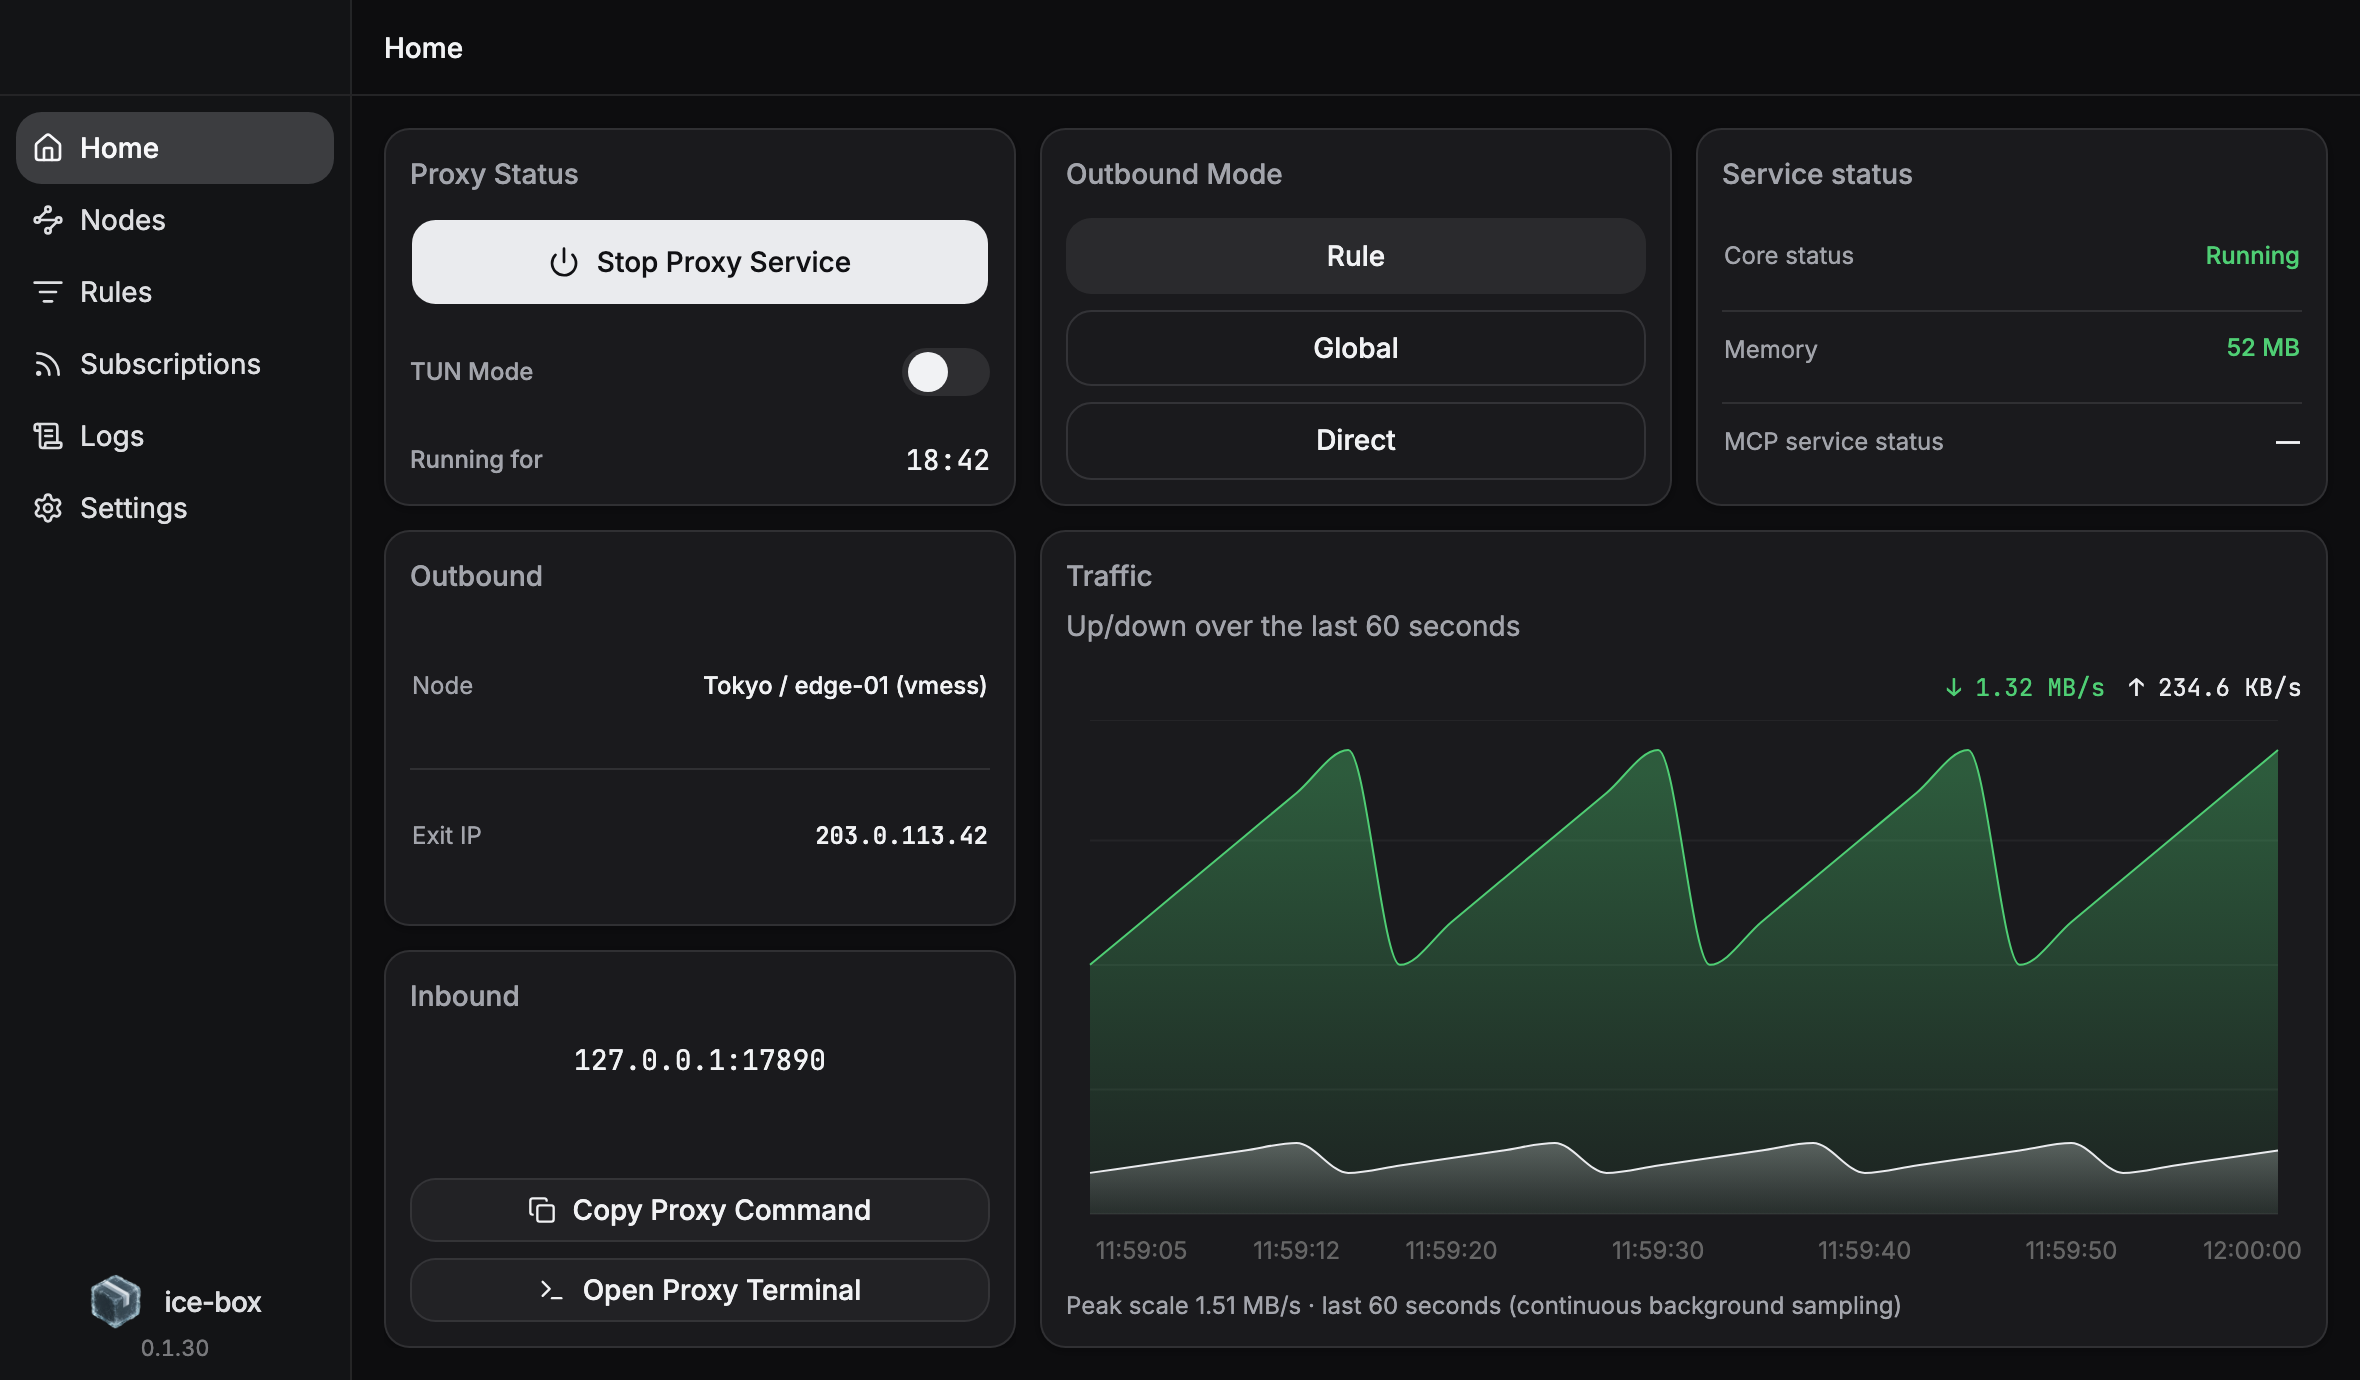
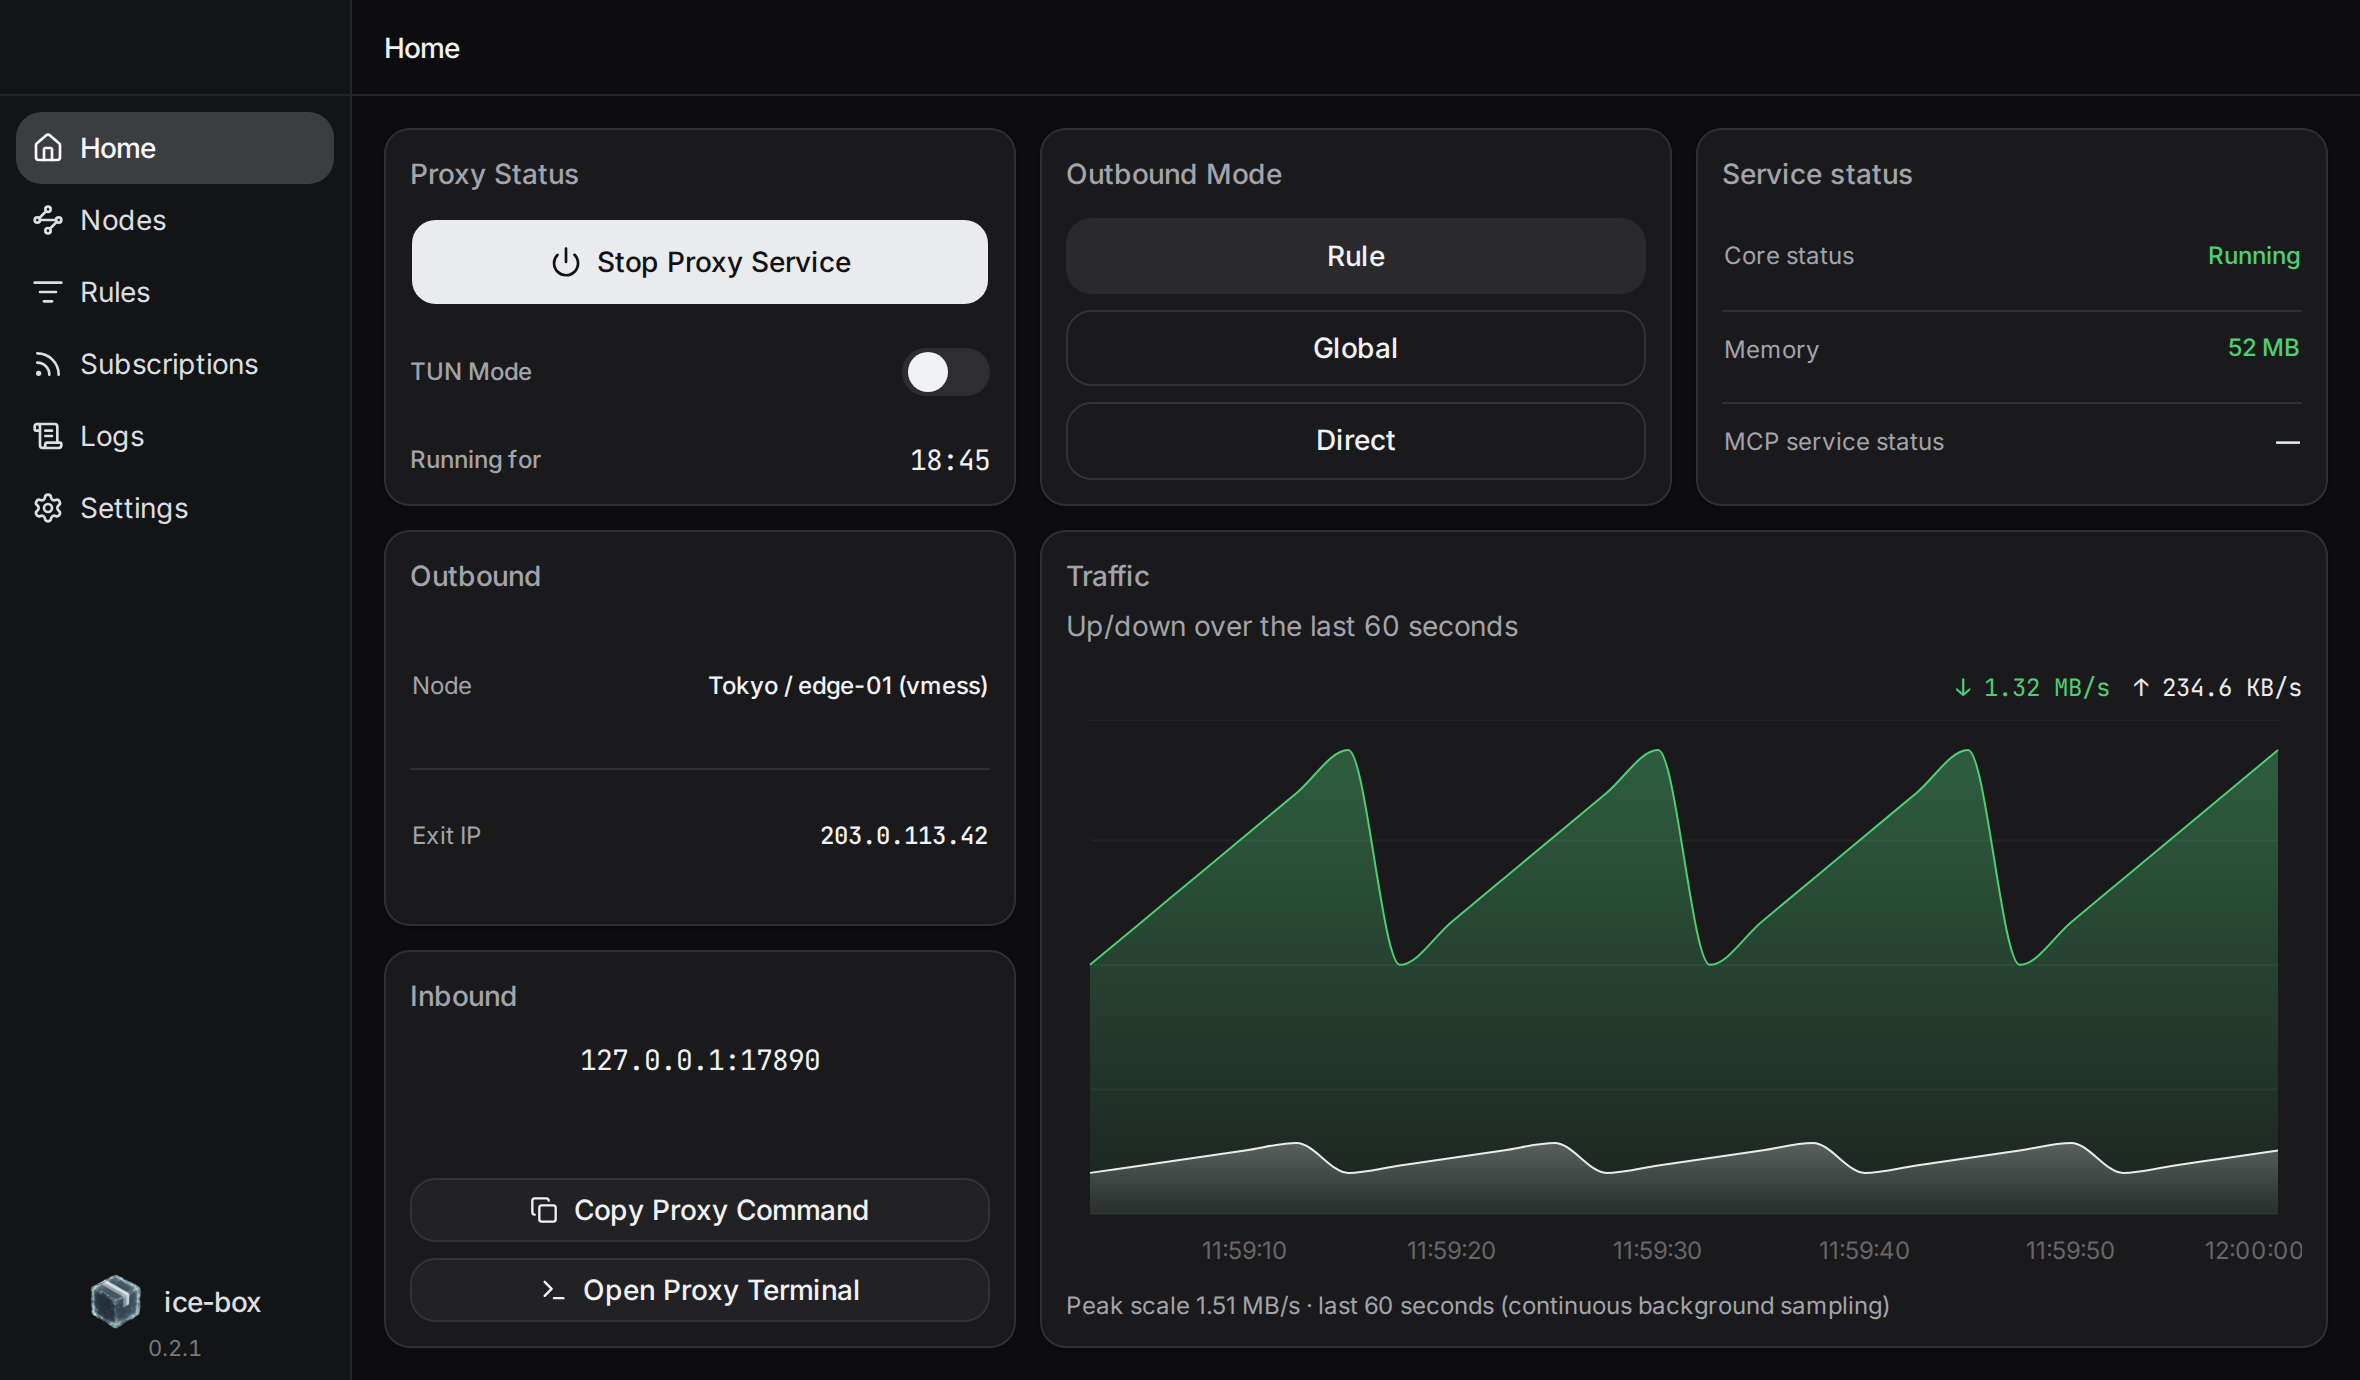
release: v0.2.1
Add the opt-in local MCP service with desktop management and tray controls. Bump version sources and open the 0.2.1 changelog. Recapture the Home screenshots.

diff --git a/CHANGELOG.md b/CHANGELOG.md
@@ -5,13 +5,16 @@ The format is based on [Keep a Changelog](https://keepachangelog.com/en/1.1.0/).
 
 ## [Unreleased]
 
+## [0.2.1] - 2026-10-19
+
 ### Added
 
 - The desktop app can expose an opt-in local MCP service for Agent clients.
   GUI actions and MCP tools share one runtime, data directory, core, and OS
   capture session. A new desktop-only MCP page manages the service and copies
-  a ready-to-use stdio bridge configuration. Android and the website do not
-  expose MCP.
+  a ready-to-use stdio bridge configuration. The tray can enable or disable
+  the service, copy the same configuration, and show its status. Android and
+  the website do not expose MCP.
 
 ### Fixed
 
